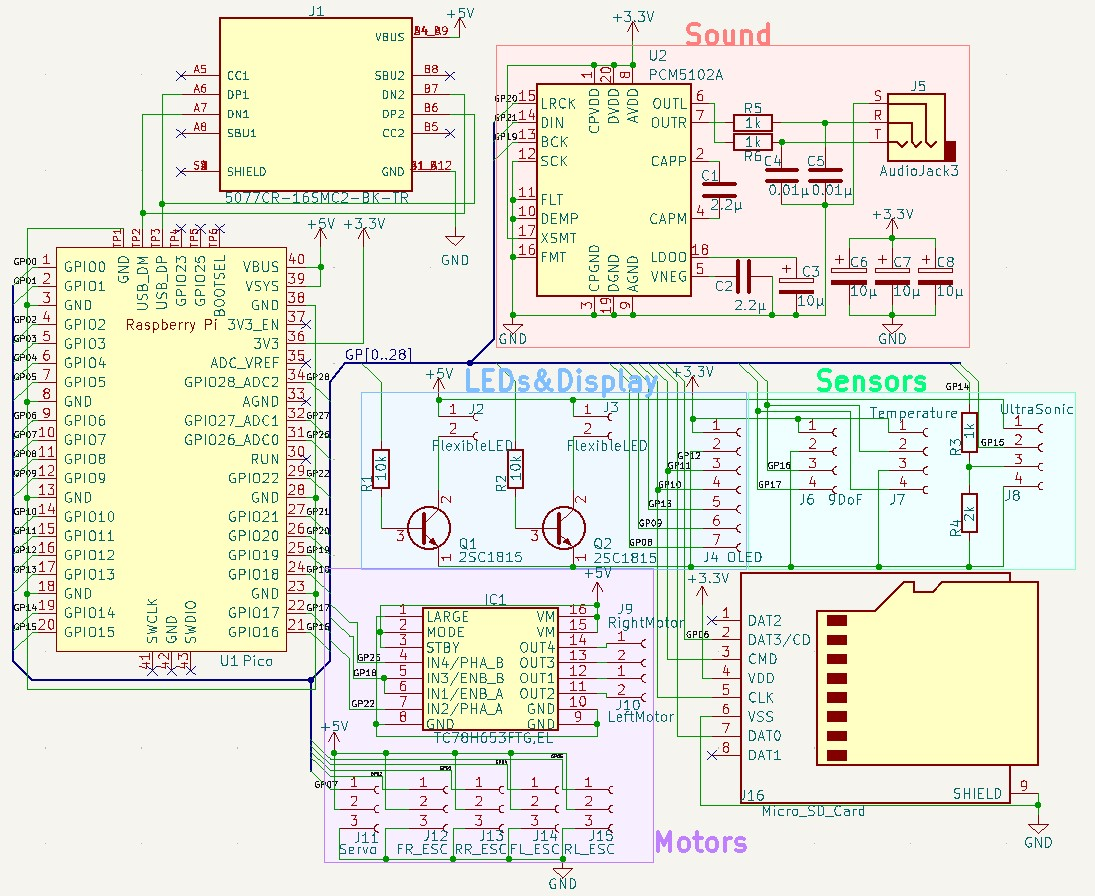
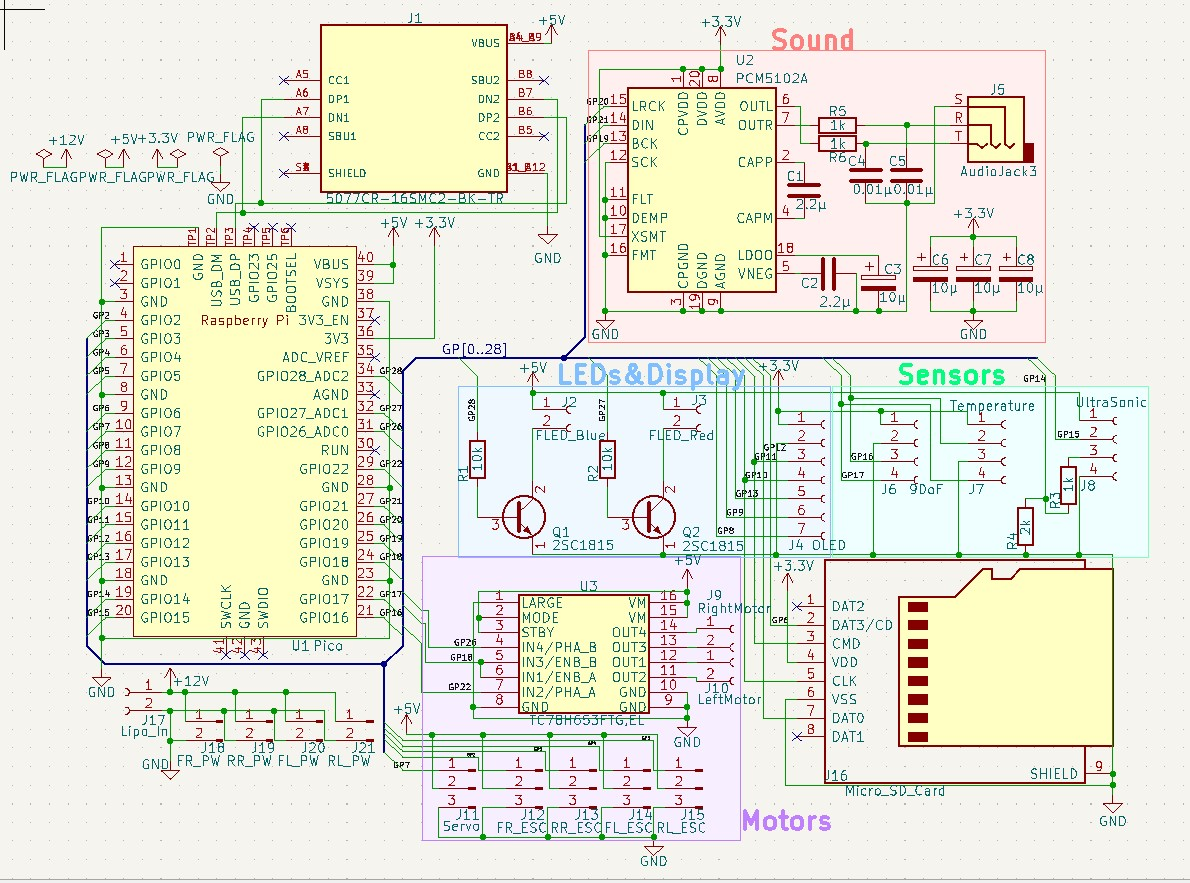
add BLDC and fix sch

Changed region(s): [[0.0, 0.0, 0.9936, 1.0]]

diff --git a/kit/src/BLDCMotor/main.py b/kit/src/BLDCMotor/main.py
@@ -1,0 +1,56 @@
+from machine import Pin, PWM
+import time
+
+input1 = Pin(0, Pin.IN, Pin.PULL_DOWN)
+input2 = Pin(1, Pin.IN, Pin.PULL_DOWN)
+
+#duty cycle
+Max_duty = 0.1 * 65536
+Min_duty = 0.05 * 65536
+
+#calibration
+def calibration():
+    duty = Max_duty
+    status = 1
+    print("Calibration start")
+    for i in range(0, 3):
+        for j in range(0, 10):
+            if status == 1:
+                duty -= 0.005 * 65536
+            else:
+                duty += 0.005 * 65536
+            print(duty / 65536)
+            BLDC.duty_u16(int(duty))
+            time.sleep(0.1)
+        status = status * -1
+        time.sleep(3)
+    print("Calibration done")
+
+BLDC = PWM(Pin(2))
+BLDC.freq(50)
+
+duty = Max_duty
+print(duty / 65536)
+BLDC.duty_u16(int(duty))
+
+isCalibrated = False
+
+while True:
+    if input1.value() == 1:
+        if isCalibrated == False:
+            calibration()
+            isCalibrated = True
+            duty = Min_duty
+        else:
+            if duty < Max_duty:
+                duty += 0.001 * 65536
+            print(duty / 65536)
+            BLDC.duty_u16(int(duty))
+            time.sleep(0.5)
+    elif input2.value() == 1:
+        if isCalibrated == True:
+            if duty > Min_duty:
+                duty -= 0.001 * 65536
+            print(duty / 65536)
+            BLDC.duty_u16(int(duty))
+            time.sleep(0.5)
